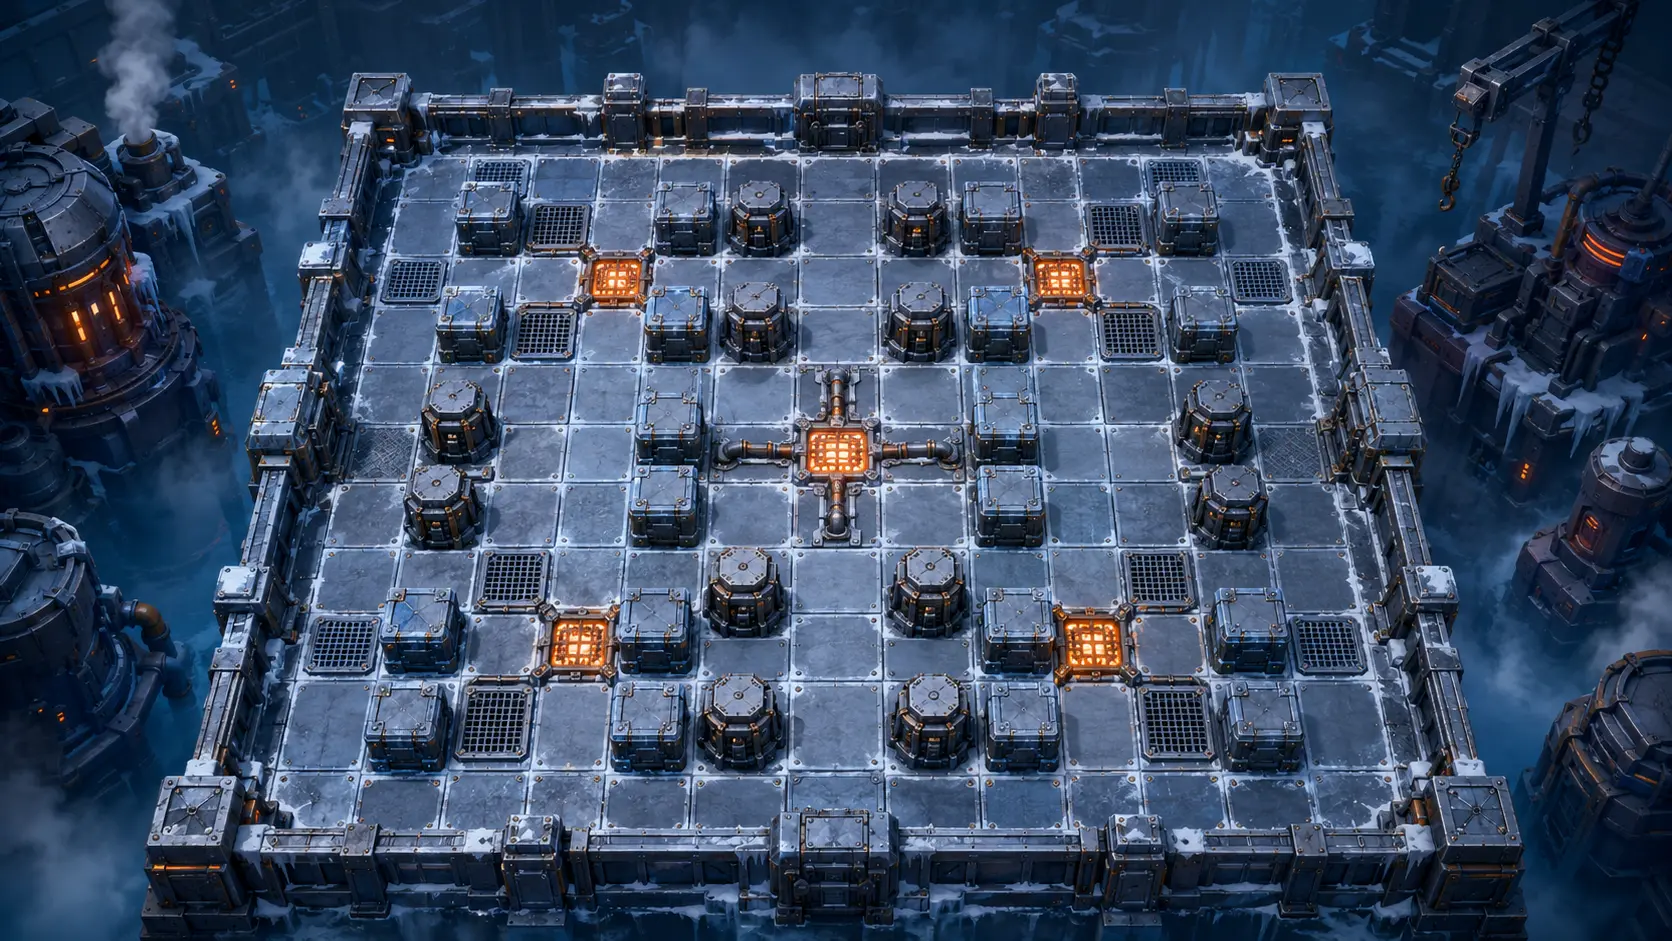
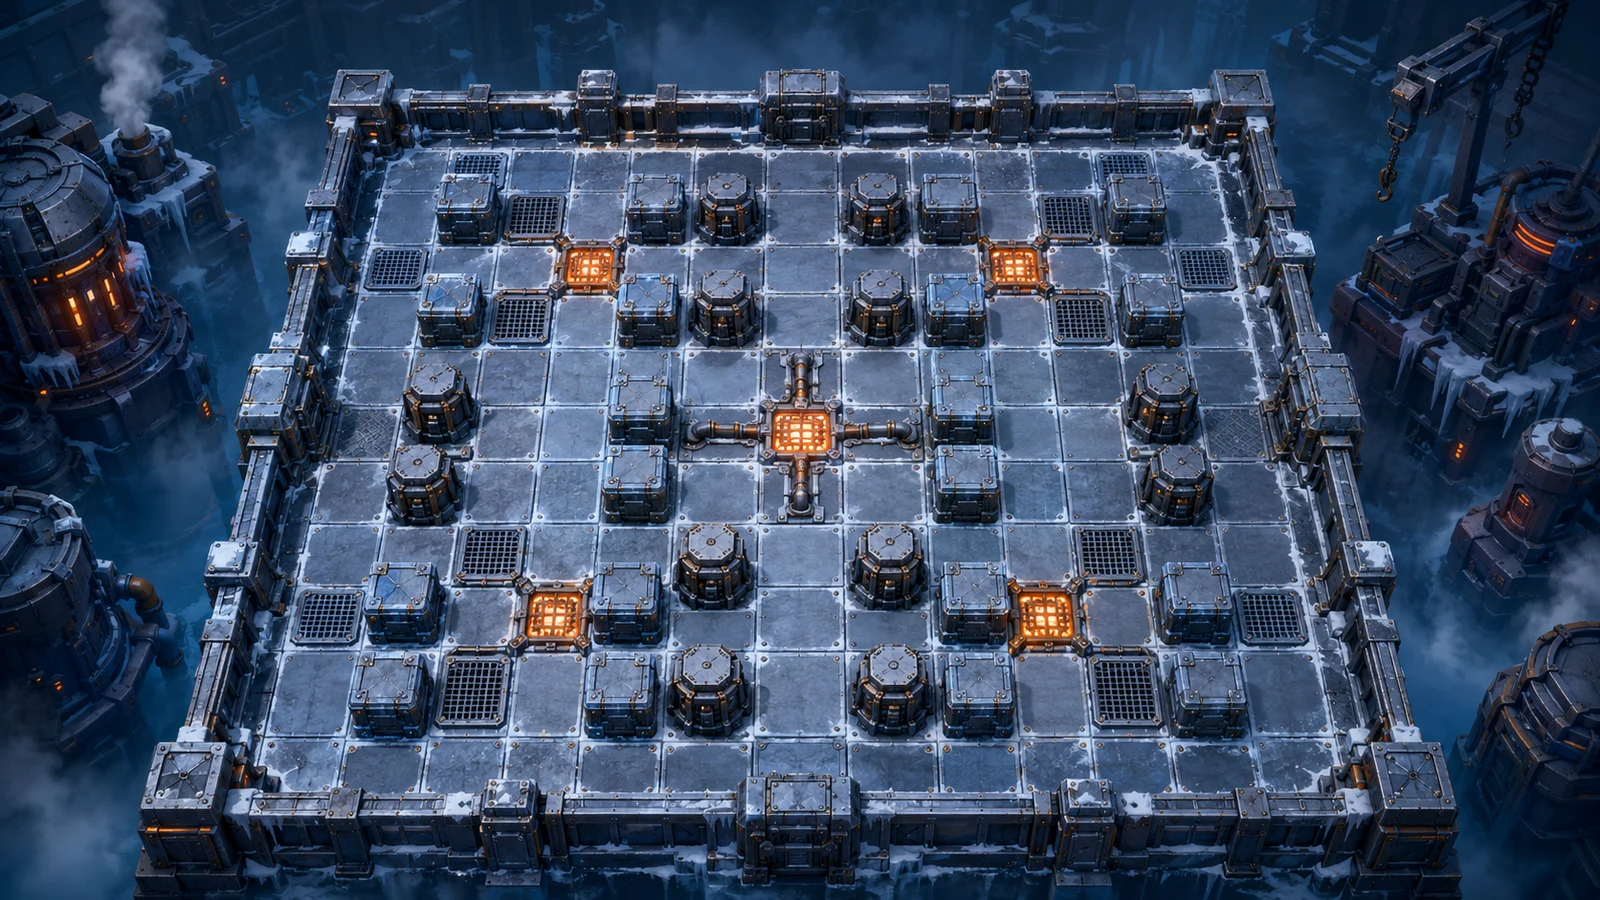
Fix arena lobby key art

diff --git a/online/app/riftbomb-client.ts b/online/app/riftbomb-client.ts
@@ -132,14 +132,14 @@ export const ARENAS: ReadonlyArray<{
     name: "Aeolian Bastions",
     shortName: "Bastions",
     description: "Bolsões defensivos e ataques por flanco.",
-    hero: "/client/arenas/labyrinth.webp",
+    hero: "/client/arenas/forts-key-art-v2.webp",
   },
   {
     id: "pit",
     name: "Storm-Eye Basin",
     shortName: "Storm-Eye",
     description: "Centro perigoso e decisões de alto risco.",
-    hero: "/client/arenas/clearing.webp",
+    hero: "/client/arenas/pit-key-art-v2.webp",
   },
 ] as const;
 
